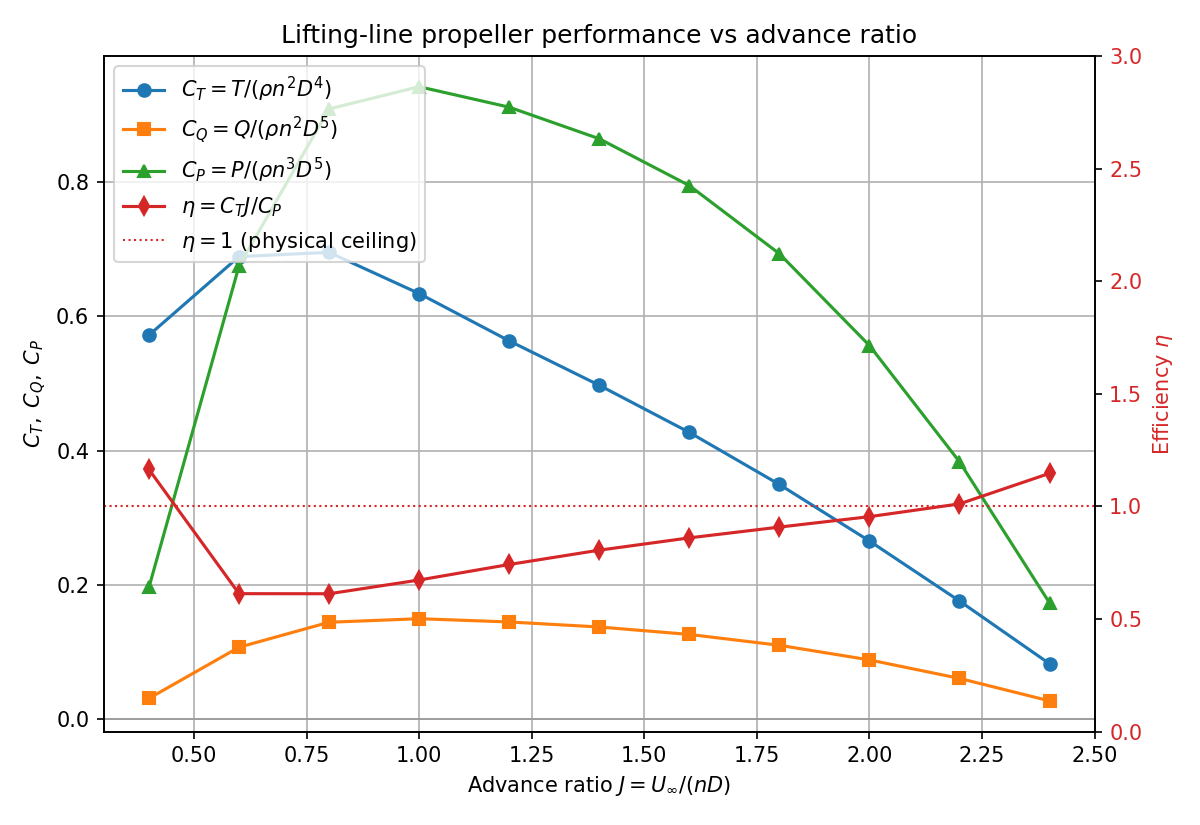
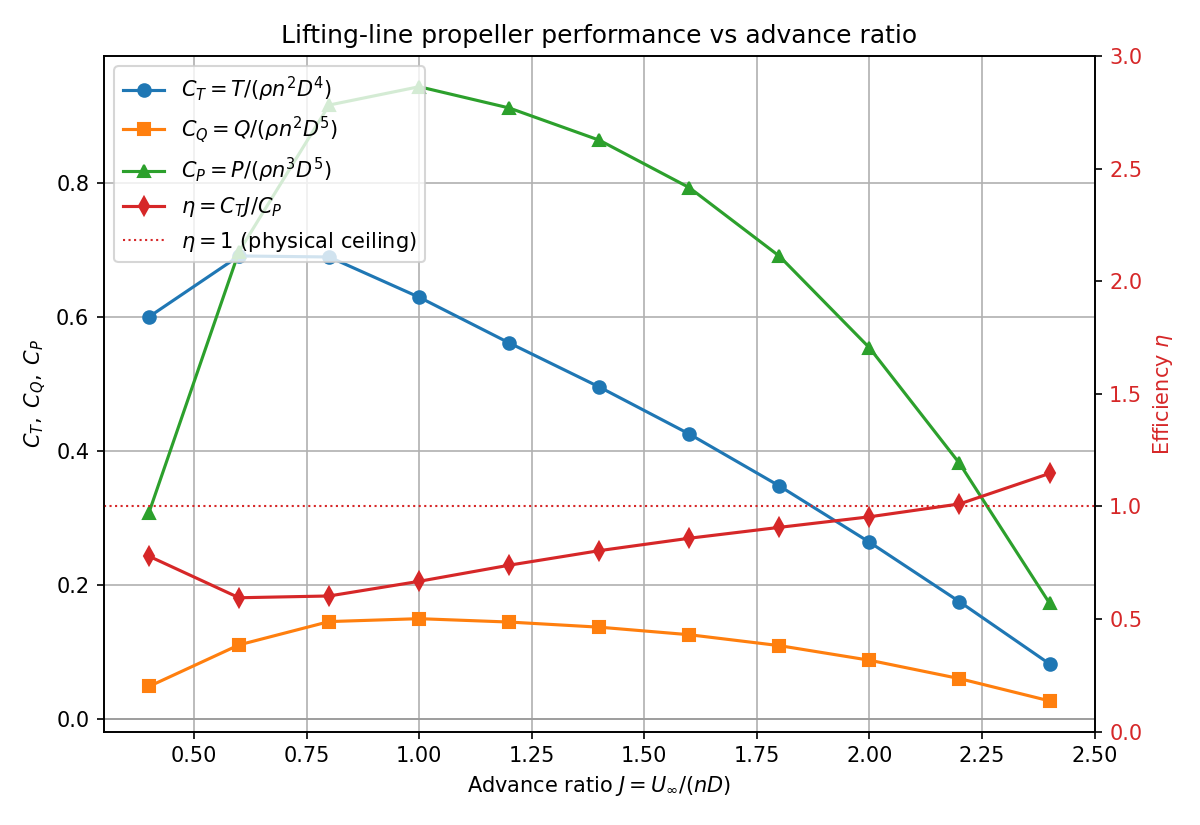
update

diff --git a/assignment_2/Lifting_line.py b/assignment_2/Lifting_line.py
@@ -31,7 +31,7 @@ class BEM:
         # Lifting-line vortex geometry / regularisation
         self.cp_chord_frac = 0.25      # control point at 1/4 chord, co-located with the bound vortex
         self.trail_chord_frac = 1.25   # on-blade trailing legs end 1/4 chord behind the TE
-        self.vortex_core = 0.04        # Rankine core radius [m] (~ panel width); damps root/tip oscillations
+        self.vortex_core = 0.03       # Rankine core radius [m] (~ panel width); damps root/tip oscillations
 
         # Airfoil data
         self.AoA, self.cl, self.cd, self.cm = self._get_airfoil()
@@ -112,7 +112,7 @@ class BEM:
             f_tip = 1.
         
         try:
-            exponent_root = -(self.n_blades / 2) * ((mu - mu_root) / mu) * np.sqrt(1 + (mu**2 * lambda_local**2) / ((1 - a)**2))
+            exponent_root = -(self.n_blades / 2) * ((mu - mu_root) / mu) * np.sqrt(1 + (mu**2 * lambda_local**2) / ((1 + a)**2))
             #exponent_root = np.clip(exponent_root, -10, 0)
             f_root = (2 / np.pi) * np.arccos(np.exp(exponent_root))
         except:
@@ -585,7 +585,8 @@ class BEM:
             # Get absolute radius for calculations
             r_abs = r_norm * self.radius
             
-            if r_norm <= self.blade_start_fraction:
+
+            if r_norm <= self.blade_start_fraction or (use_prandtl and r_norm >= 1.0):
                 self.r_R_list.append(r_norm)
                 self.a_list.append(0)
                 self.a_prime_list.append(0)
@@ -641,26 +642,25 @@ class BEM:
                     F_prandtl = self._calculate_prandtl_factor(r_norm, a)
                 else:
                     F_prandtl = 1.0
-                
-                # Corrected forces
-                F_azimuth = (lift * np.sin(phi) - self.drag * np.cos(phi)) * F_prandtl
-                F_axial = (lift * np.cos(phi) + self.drag * np.sin(phi)) * F_prandtl
-                
-                # Thrust coefficient
+                # Floor F so the divisions below stay finite at the very tip (F -> 0 there).
+                F_safe = max(F_prandtl, 1e-4)
 
+
+                F_azimuth = lift * np.sin(phi) - self.drag * np.cos(phi)
+                F_axial = lift * np.cos(phi) + self.drag * np.sin(phi)
+
+                # Thrust coefficient from the real blade force.
                 A_a = 2 * np.pi * r_abs * self.dr[i-1]
                 C_T = (F_axial * self.n_blades * self.dr[i-1]) / (0.5 * self.rho * self.U_inf**2 * A_a)
                 if i==20 and iter_count%2==0:
                     self.CT_conv_list.append(C_T)
                     self.CT_conv_ind.append(iter_count)
 
-                
-                # Apply Glauert correction for axial induction
-                a_calc = (-1/2) * (1 - np.sqrt(max(0, 1 + C_T))) # self._apply_glauert_correction(C_T)
+
+                a_calc = (-1/2) * (1 - np.sqrt(max(0, 1 + C_T / F_safe)))
 
                 a_calc = np.clip(a_calc, 0, 0.95)
-                # Azimuthal induction
-                a_prime_calc = (F_azimuth * self.n_blades) / (2 * self.rho * (2 * np.pi * r_abs) * self.U_inf * (1 + a_calc) * omega * r_abs)
+                a_prime_calc = (F_azimuth * self.n_blades) / (2 * self.rho * (2 * np.pi * r_abs) * self.U_inf * (1 + a_calc) * omega * r_abs * F_safe)
                 
                 # Check convergence
                 if abs(a_calc - a) < tolerance and abs(a_prime_calc - a_prime) < tolerance:
@@ -733,7 +733,7 @@ class BEM:
 
 if __name__ == "__main__":
     
-    bem = BEM(J=1.8, radius=0.7, n_blades=6, U_inf=60)
+    bem = BEM(J=1.6, radius=0.7, n_blades=6, U_inf=60)
 
 
     tend=0.2
@@ -741,7 +741,7 @@ if __name__ == "__main__":
     bem.tlst=np.arange(0,tend,dt)
     # Uwake=10
     # print(bem.calc_ind_filiment([0,0,0.8],0.4))
-    output = bem.Lifting_line(resolution=20, a_ind_wake=0.1, track_convergence=True, spacing='cosine', plot_geometry=False)
+    output = bem.Lifting_line(resolution=20, a_ind_wake=0.1, track_convergence=True, spacing='linear', plot_geometry=False)
 
     # Unpack outputs
     a_out, aline_out, Fnorm_out, Ftan_out, Gamma_out, conv_iter, conv_hist, r_control, alpha_out, phi_out = output